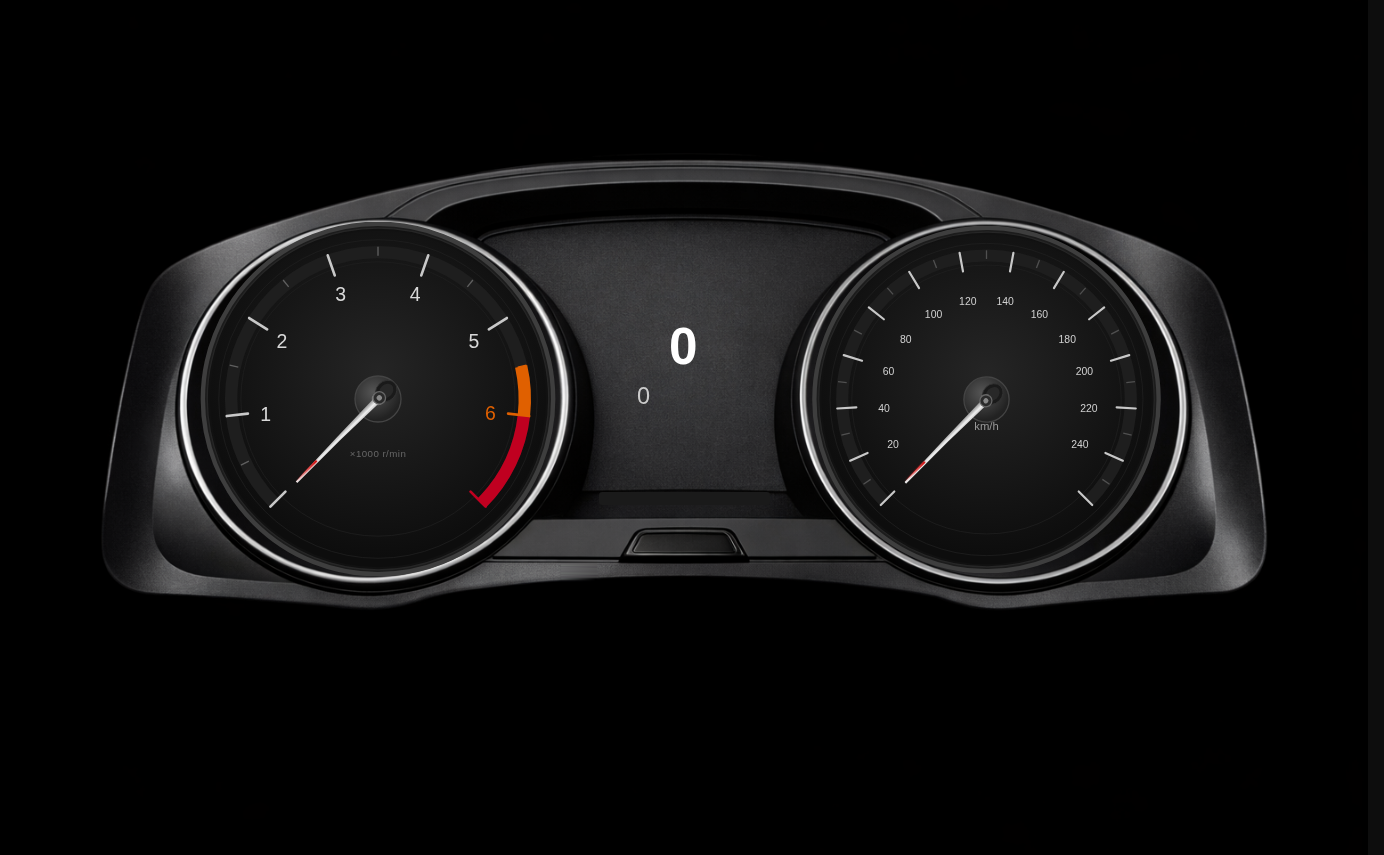
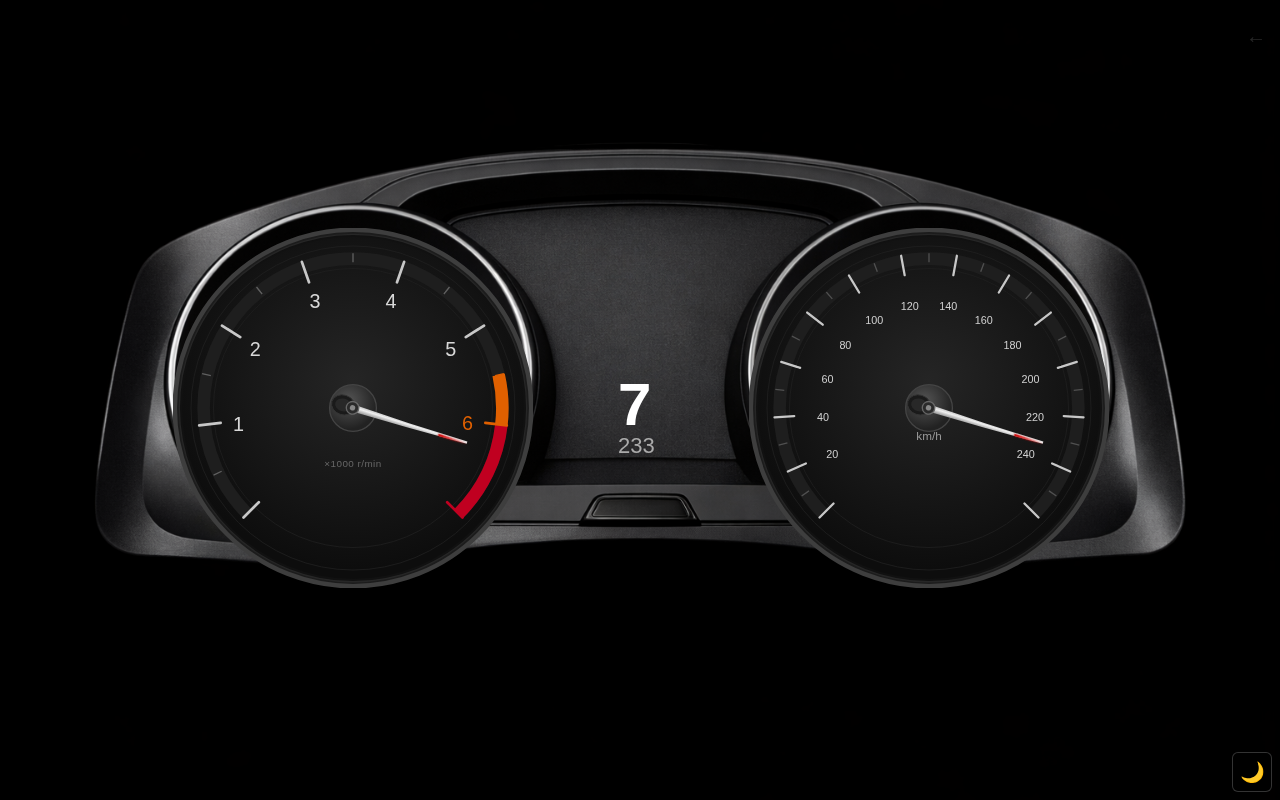
docs: save tuned live-dashboard shot under its own filename
Revert dashboard-live.png to the original asset and add the
cropped/cleaned MK7 canvas capture as a new file instead, so
overwriting in place doesn't collide with any cached copy of the
old filename.

Claude-Session: https://claude.ai/code/session_01AgzjkPPzP6SAth8Z2ozPY7

diff --git a/README.md b/README.md
@@ -27,7 +27,7 @@ form system on the frontend.
 ## Screenshots
 
 <p align="center">
-  <img src="presentation-screenshots/dashboard-live.png" width="820" alt="A live sim-racing dashboard rendering a gauge cluster"><br>
+  <img src="presentation-screenshots/dashboard-live-mk7-tuned.png" width="820" alt="A live sim-racing dashboard rendering a gauge cluster"><br>
   <sub>A dashboard rendered live against sim telemetry</sub>
 </p>
 
